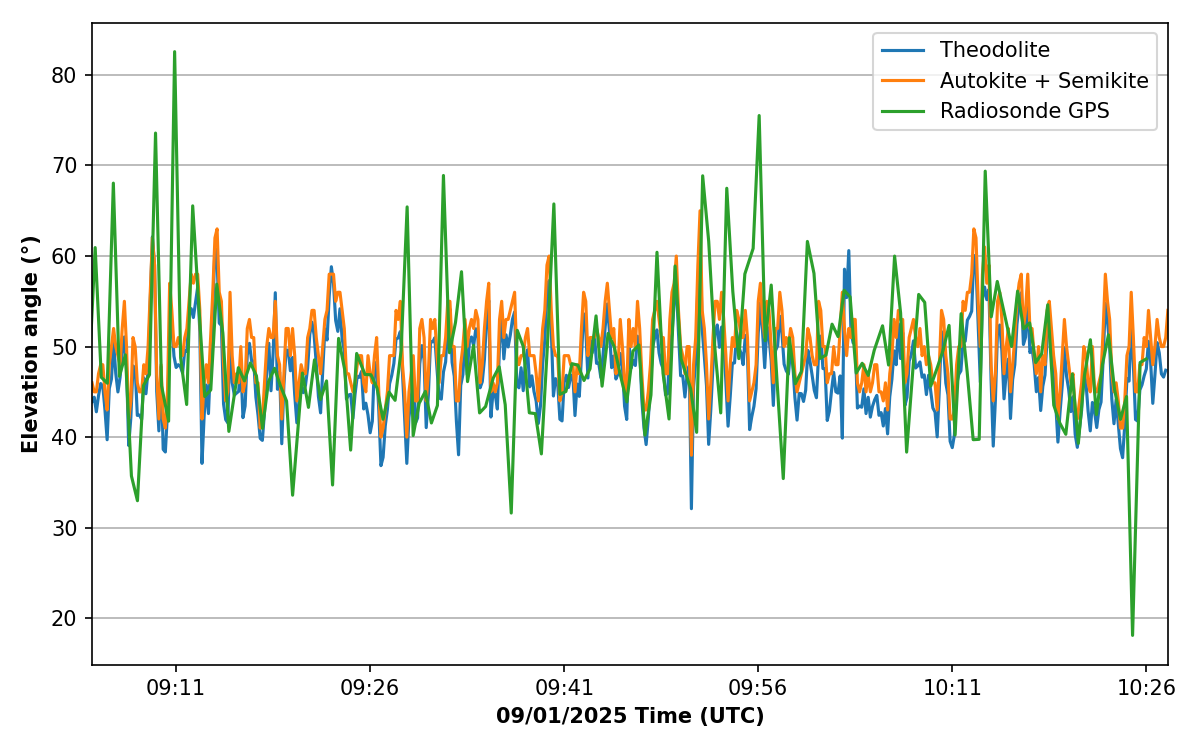
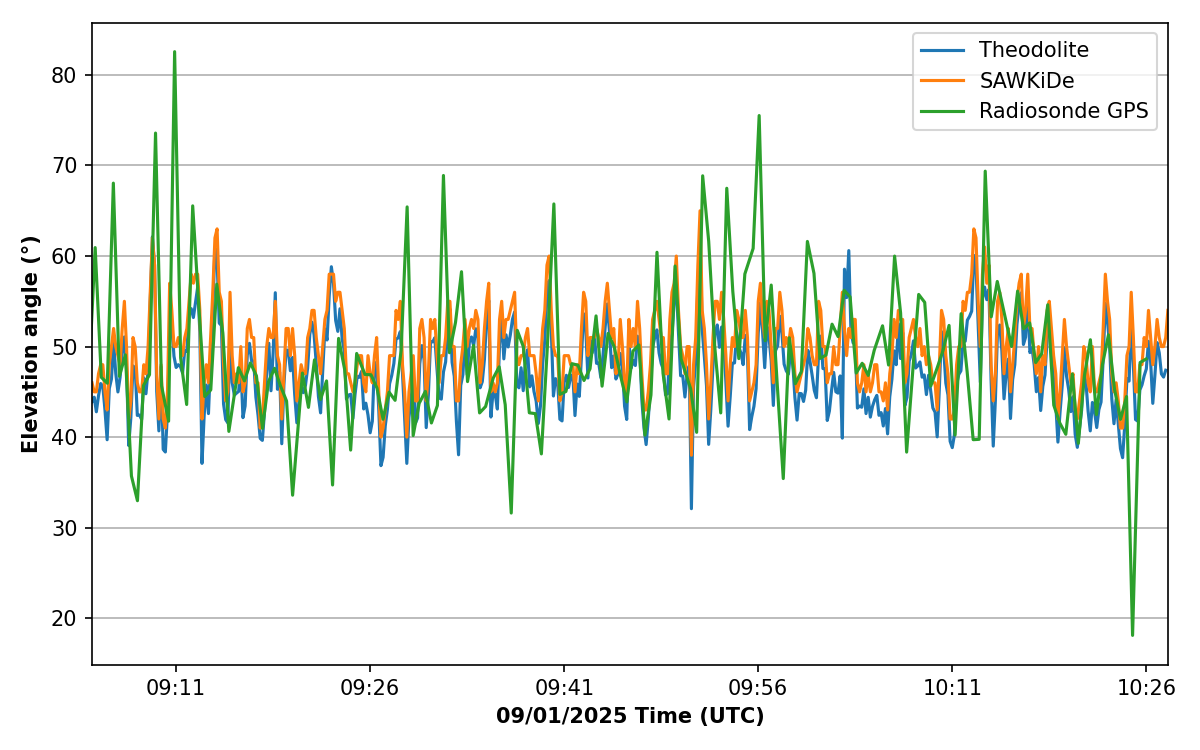
changed the plot label to SAWKiDe

Changed region(s): [[0.7092, 0.0613, 0.9558, 0.184]]

diff --git a/src/autokite/azimuth_comparison.py b/src/autokite/azimuth_comparison.py
@@ -61,7 +61,7 @@ auto_fixed = fix_azimuth_wrap(autokite_azimuth)
 
 fig, ax = plt.subplots(figsize=(8,5), dpi=150)
 ax.plot(theo_fixed.index, theo_fixed-180, label="Theodolite")
-ax.plot(auto_fixed.index, auto_fixed-180, label="Autokite + Semikite")
+ax.plot(auto_fixed.index, auto_fixed-180, label="SAWKiDe")
 ax.set_xlim(list(autokite.index)[0], list(autokite.index)[-1])
 ax.set_xticks(list(autokite.index)[0::100])
 ax.set_xlabel('09/01/2025 Time (UTC)', fontsize=10, weight="bold")

diff --git a/src/autokite/elevation_comparison.py b/src/autokite/elevation_comparison.py
@@ -56,7 +56,7 @@ gps_elevation = gps["elevation_angle"]
 # plotting part
 fig, ax = plt.subplots(figsize=(8,5), dpi=150)
 ax.plot(theo_elevation, label="Theodolite")
-ax.plot(autokite_elevation, label="Autokite + Semikite")
+ax.plot(autokite_elevation, label="SAWKiDe")
 ax.plot(gps_elevation, label="Radiosonde GPS")
 ax.set_xlim(list(autokite.index)[0], list(autokite.index)[-1])
 ax.set_xticks(list(autokite.index)[0::100])
